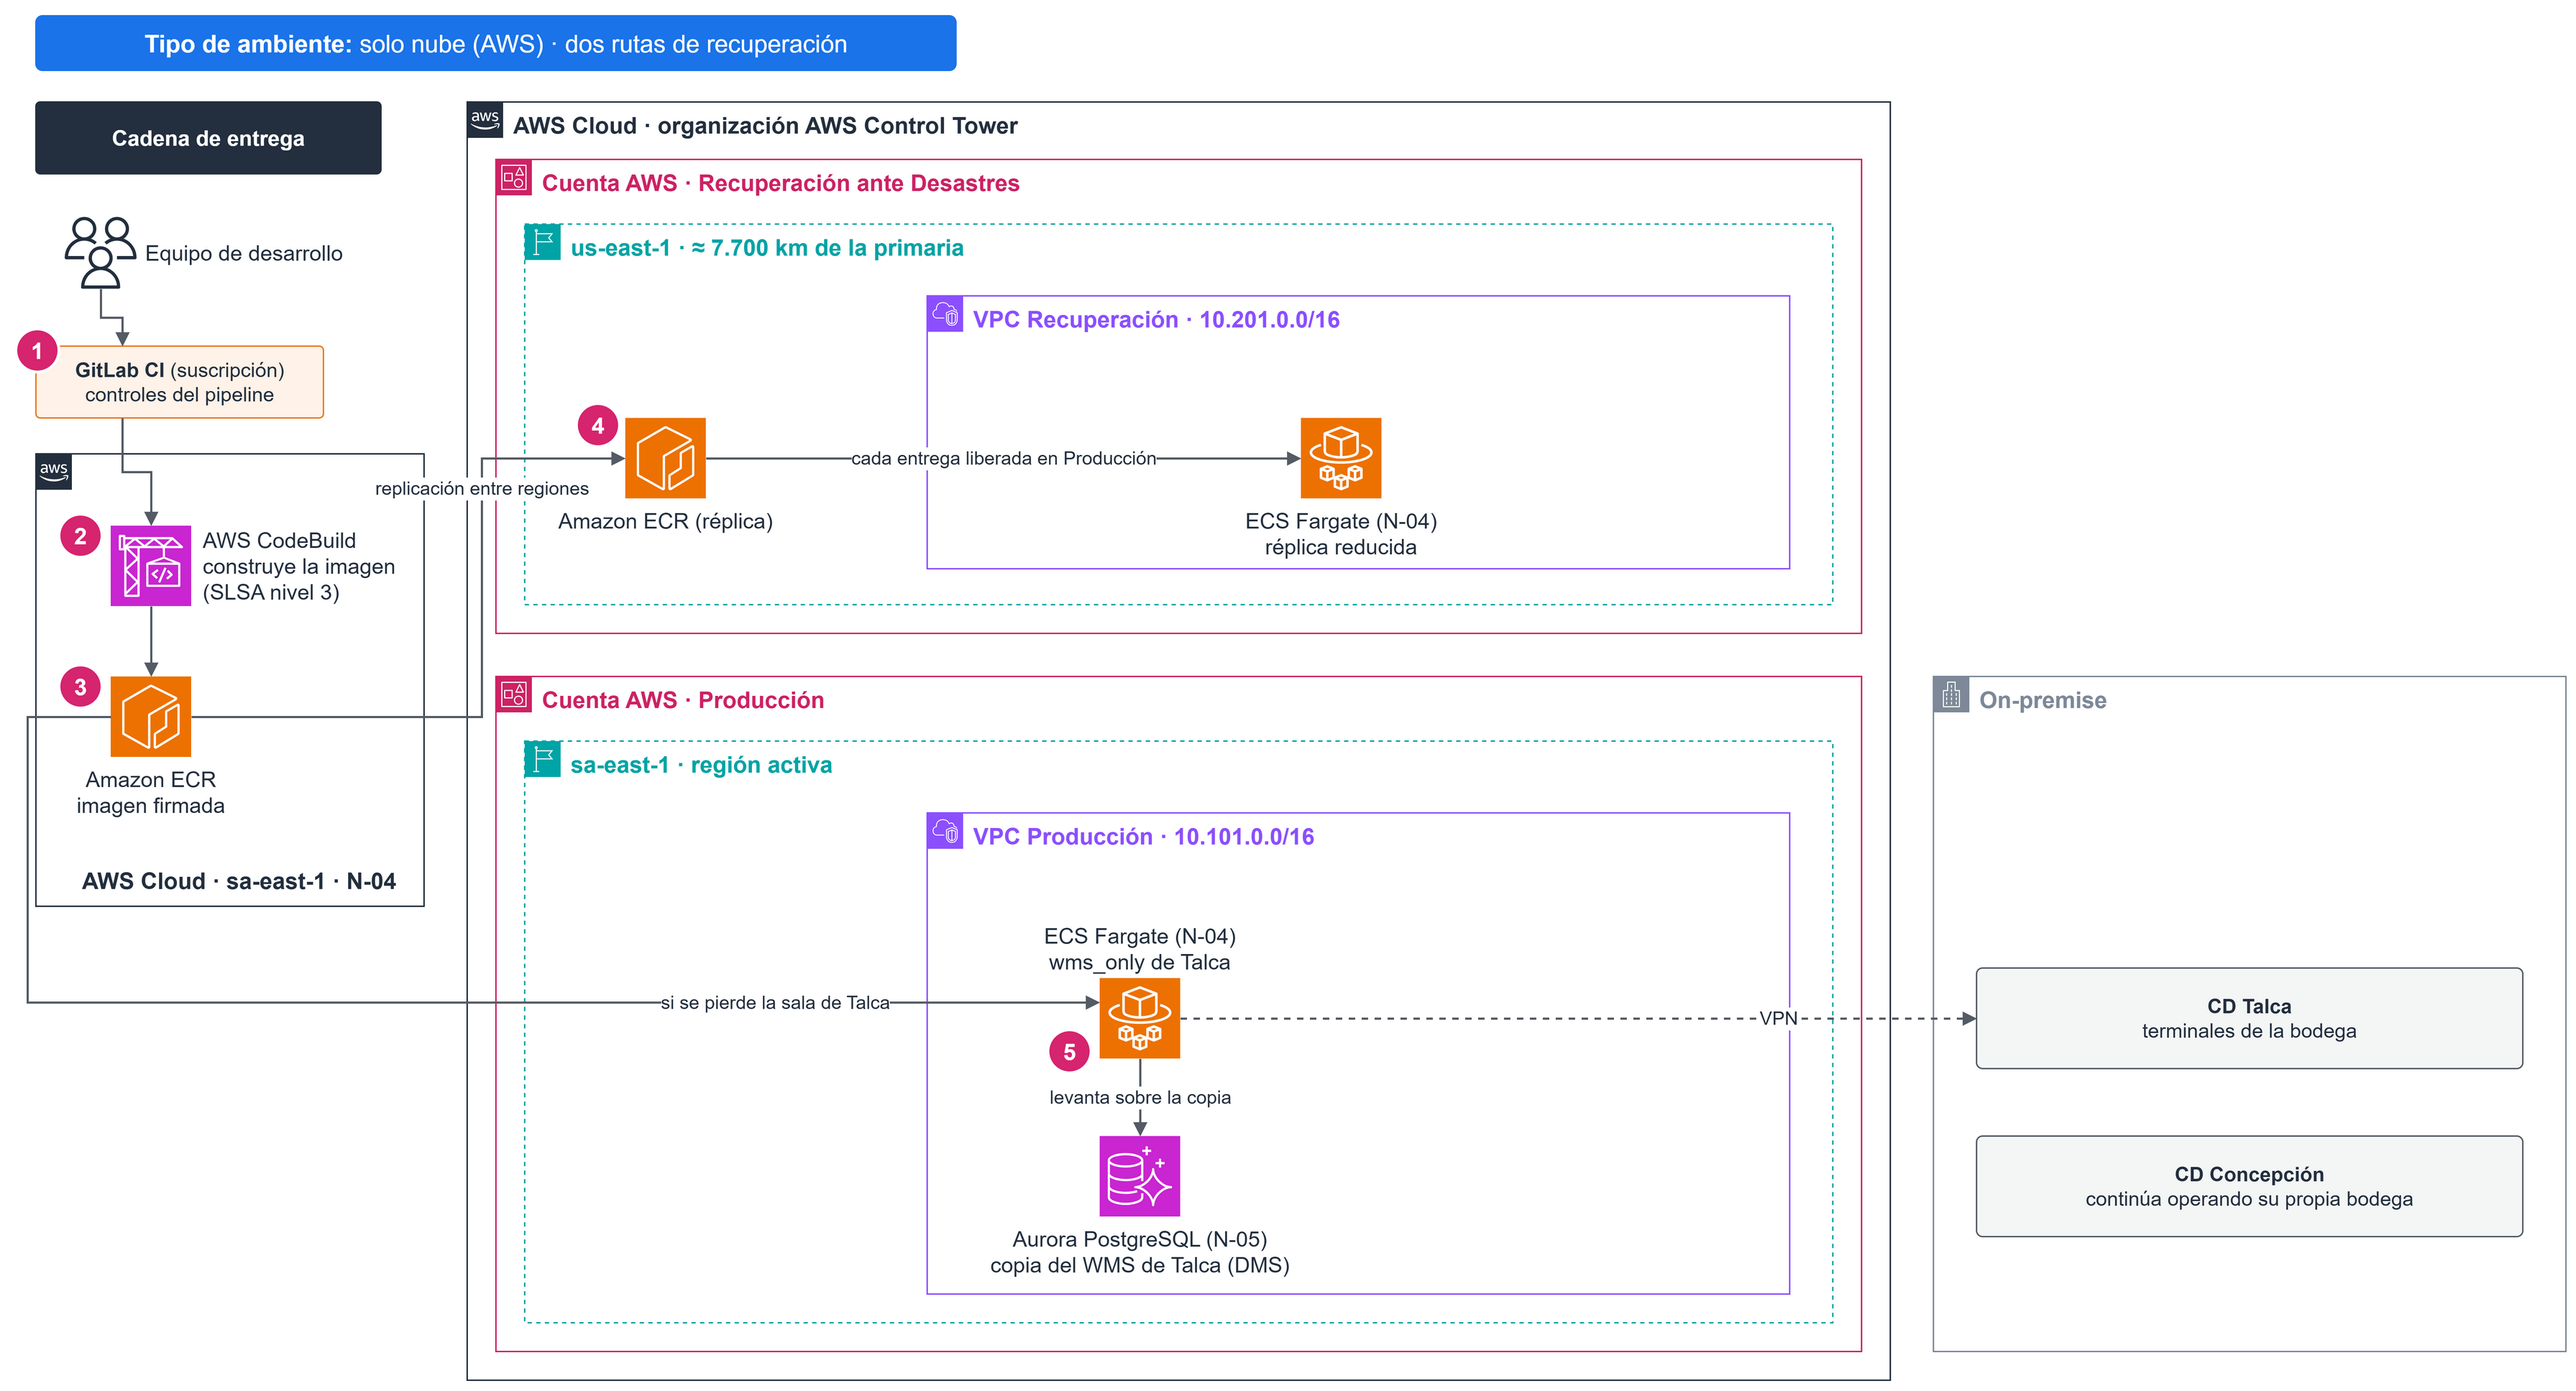
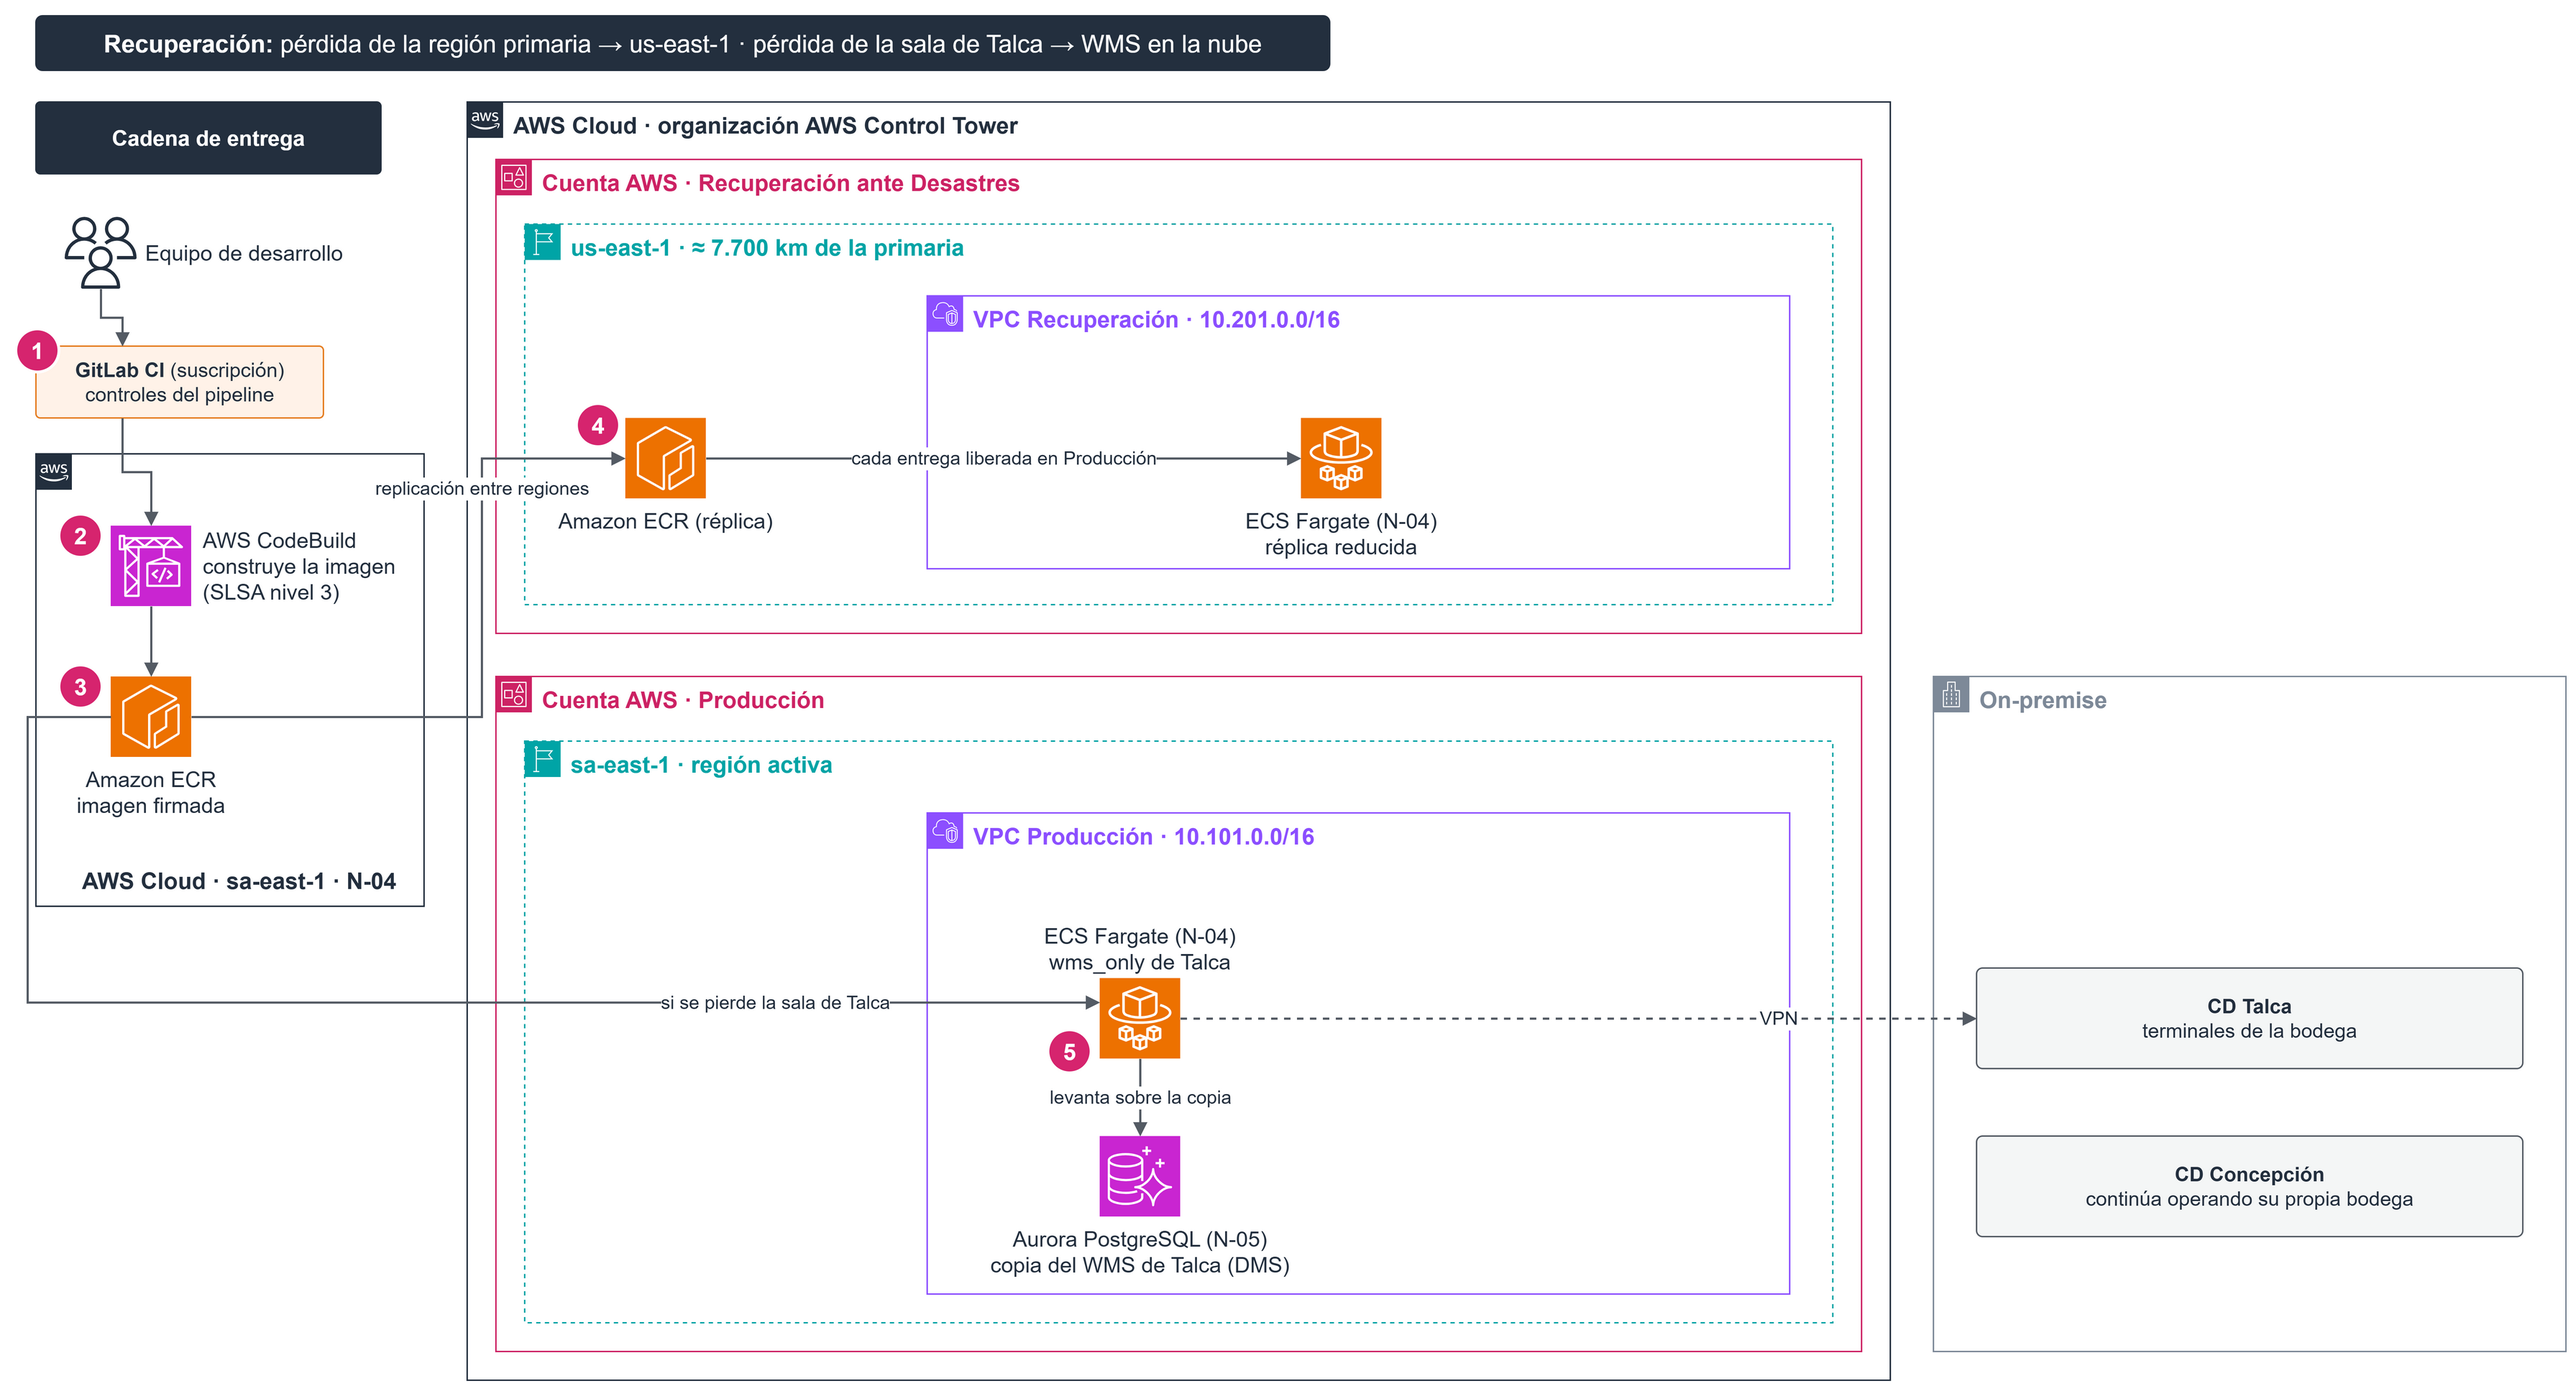
Subdoc 4.2.4: diagramas alineados con el texto de despliegue de rama-latex
- Desarrollo: la flecha de despliegue indica "con la configuración y los
  secretos del ambiente", como dice el párrafo de la figura.
- Recuperación: la etiqueta deja de clasificarlo como "solo nube" (el texto no
  lo clasifica así) y describe sus dos rutas: pérdida de la región primaria
  hacia us-east-1 y pérdida de la sala de Talca con el WMS en la nube.
- Desarrollo y QA: VPC más ancha para que la etiqueta de Fargate no toque el
  borde.
El texto de 11_j_despliegue.tex no se modifica.

Changed region(s): [[0.0, 0.0, 0.5267, 0.062]]

diff --git a/04/figuras/fuentes/fisica/generar_diagramas_ambientes.py b/04/figuras/fuentes/fisica/generar_diagramas_ambientes.py
@@ -145,14 +145,14 @@ def ambiente_simple(nombre, vpc, fname, rotulo, png):
     git, ecr = cadena(d)
     nube(d, nombre, 'sa-east-1 (São Paulo)', 320, 80, 780, 560, 540)
     portales(d, git, 5, 950)
-    d.group(vpc, 'group_vpc2', '#8C4FFF', 380, 370, 400, 190)
-    far = d.icon('ECS Fargate (N-04)' + ('<br>ensayo de wms_only' if nombre == 'QA' else ''), 'fargate', 'compute', 640, 450, lw=200)
-    d.paso(4, 606, 440)
-    d.edge(ecr, far, R(0.5), pts=((330, 508), (330, 478)), label=rotulo, pos=0.4)
+    d.group(vpc, 'group_vpc2', '#8C4FFF', 380, 370, 500, 190)
+    far = d.icon('ECS Fargate (N-04)' + ('<br>ensayo de wms_only' if nombre == 'QA' else ''), 'fargate', 'compute', 690, 450, lw=200)
+    d.paso(4, 656, 440)
+    d.edge(ecr, far, R(0.5), pts=((330, 508), (330, 478)), label=rotulo, pos=0.3)
     d.save(fname, png)
 
 
-ambiente_simple('Desarrollo', 'VPC Desarrollo · 10.104.0.0/16', 'A1_Ambiente_Desarrollo.drawio', 'despliegue de la imagen', 'amb_desarrollo')
+ambiente_simple('Desarrollo', 'VPC Desarrollo · 10.104.0.0/16', 'A1_Ambiente_Desarrollo.drawio', 'con la configuración y los secretos del ambiente', 'amb_desarrollo')
 ambiente_simple('QA', 'VPC QA · 10.103.0.0/16', 'A2_Ambiente_QA.drawio', 'misma imagen que en Desarrollo', 'amb_qa')
 
 
@@ -219,7 +219,7 @@ d.save('A4_Ambiente_Produccion.drawio', 'amb_produccion')
 # activa sobre la copia del WMS de Talca en Aurora (DMS) y atiende a sus terminales por la VPN; Concepcion
 # continua operando su propia bodega.
 d = D('Recuperación ante Desastres')
-d.badge(B('Tipo de ambiente:') + ' solo nube (AWS) · dos rutas de recuperación', NUBE, 640)
+d.badge(B('Recuperación:') + ' pérdida de la región primaria → us-east-1 · pérdida de la sala de Talca → WMS en la nube', '#232F3E', 900)
 git, ecr = cadena(d)
 d.group('AWS Cloud · organización AWS Control Tower', 'group_aws_cloud_alt', '#232F3E', 320, 80, 990, 890)
 # ruta 1: perdida de la region primaria
